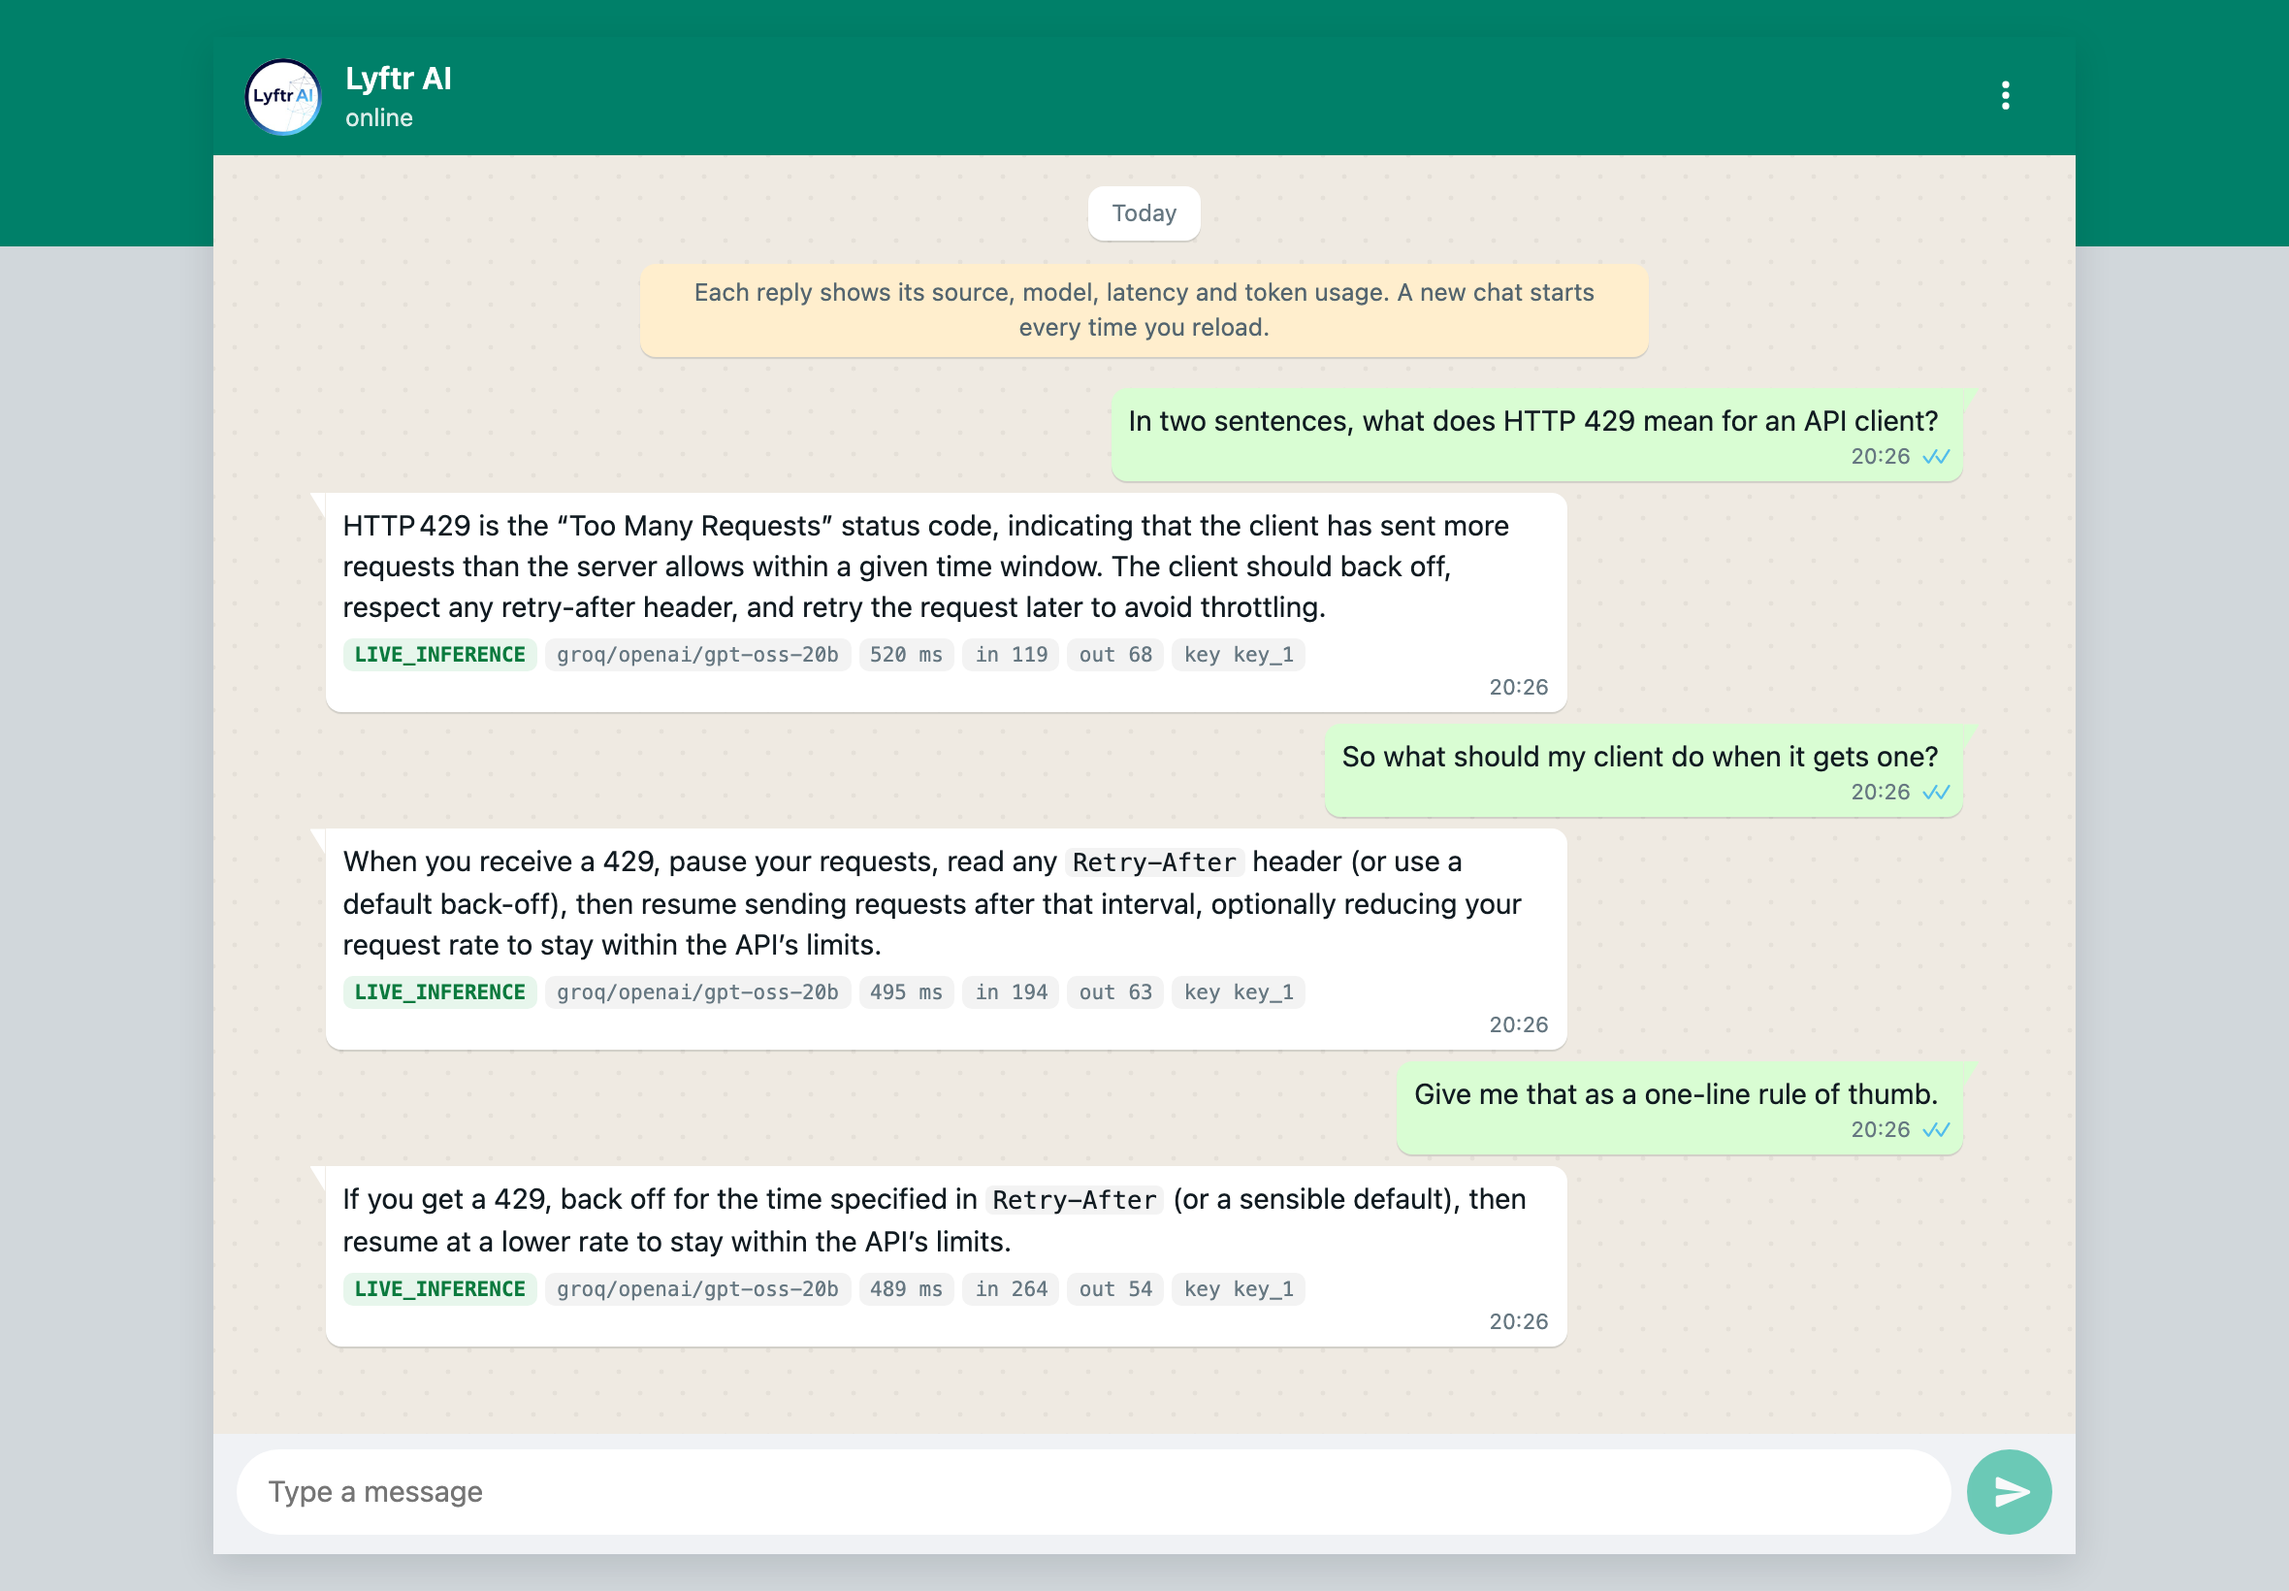
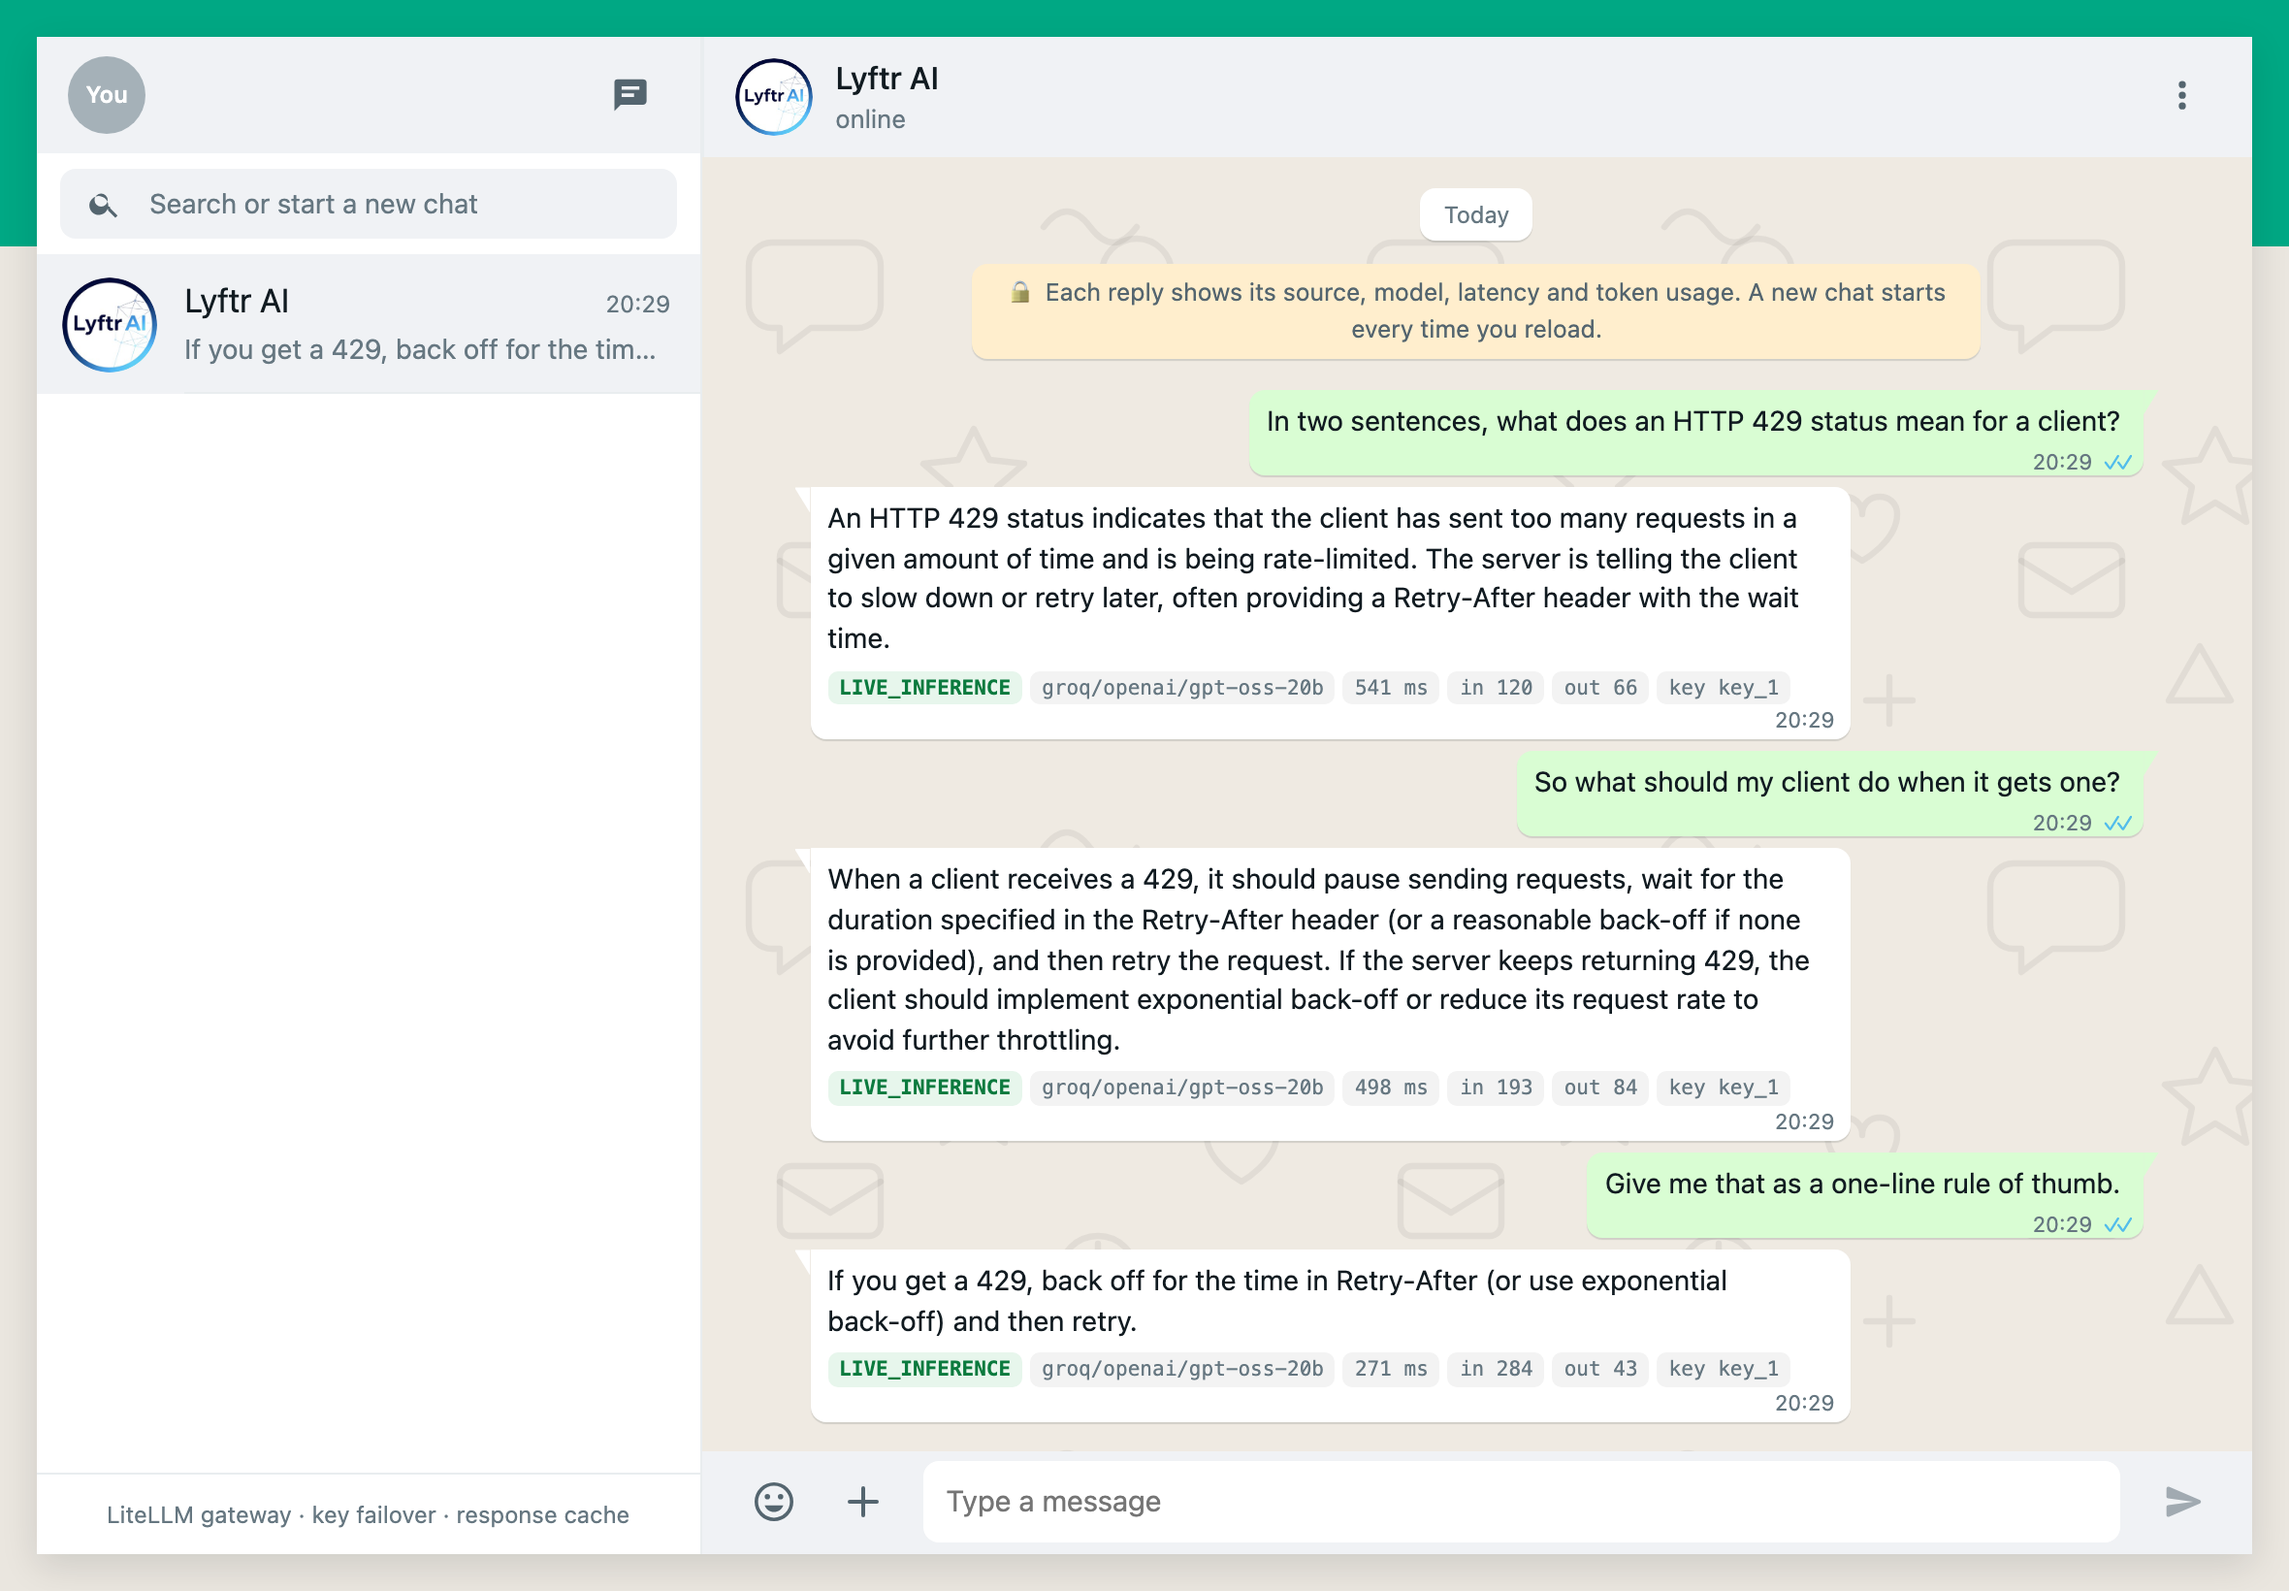
Refresh README screenshots for the new chat UI

diff --git a/README.md b/README.md
@@ -116,7 +116,7 @@ This uses LiteLLM's built-in cache (`litellm.cache = Cache(type="disk")`) and `c
 
 A cache hit is detected from `response._hidden_params["cache_hit"]`. On a hit I report `LLM_CACHE`, `key_id: null`, `fallback_attempts: 0`, and the token usage that was stored with the original response. A hit makes no network call, so it usually comes back in 2 to 5 ms, while a live Groq call takes 300 to 600 ms.
 
-![Same question in a new session, served from cache in 4 ms](docs/screenshots/cache-hit.png)
+![Same question in a new session, served from cache in a few ms](docs/screenshots/cache-hit.png)
 
 I picked disk over in-memory because the cache file sits in the same `/data` volume as the database, so it survives restarts. It's still just files on disk, no Redis.
 
@@ -193,7 +193,7 @@ curl -s $B/sessions/demo-4/messages
 # {"detail":"session not found"}   (the failed request was not stored)
 ```
 
-You can do the same thing from the UI. Open **Settings**, pick a failure from the dropdown, and the next messages go out with that header:
+You can do the same thing from the UI. Open the **⋮ menu** in the chat header, pick a failure from the dropdown, and the next messages go out with that header:
 
 ![Failover to key_2, then every key failing](docs/screenshots/failover.png)
 
@@ -206,7 +206,7 @@ curl -s -X POST $B/chat -H 'Content-Type: application/json' -d '{"session_id":"d
 curl -s $B/sessions/demo-5/messages
 ```
 
-**Per-message tokens.** Each request reports only its own usage. Two first messages of the same length in two new sessions both came back as 106 input tokens. In a single conversation, input tokens grow turn by turn because the history is part of the prompt (121 → 185 → 268 in the first screenshot), but each number belongs to that request only.
+**Per-message tokens.** Each request reports only its own usage. Two first messages of the same length in two new sessions both came back as 106 input tokens. In a single conversation, input tokens grow turn by turn because the history is part of the prompt (120 → 193 → 284 in the first screenshot), but each number belongs to that request only.
 
 **Validation**
 
@@ -232,11 +232,11 @@ Custom system prompts work too. They're saved per session:
 
 ## 6. Bonus features
 
+- **Messenger-style UI.** A familiar two-pane chat layout (chat list, bubbles with timestamps and ticks, light and dark themes) with the Lyftr logo, so it feels like a real chat app rather than a form.
 - **Failover dropdown in the UI.** It sends `X-Simulate-Failure` from the browser, so failover and the 503 message can be shown on the live site without curl.
 - **Disk cache in the data volume.** Cache hits still work after a restart.
 - **Per-key models (`LLM_MODELS`).** The pool can mix providers, e.g. a Groq key and a Gemini key, so one provider having a bad day doesn't take the app down.
 - **System prompt per session**, stored in SQLite.
 - **Light formatting for replies.** Bold, inline code and code blocks render properly, built as React elements rather than injected HTML, so model output can't inject markup.
-- **Dark mode**, following the OS setting.
 - **One frontend image for any backend.** The nginx container writes the backend URL into `/config.js` when it starts, so there's no rebuild per environment.
 - **Small hardening:** the backend runs as a non-root user, there's a Docker healthcheck, keys are hidden from logs and `repr`, and each exchange is saved in a single transaction.
